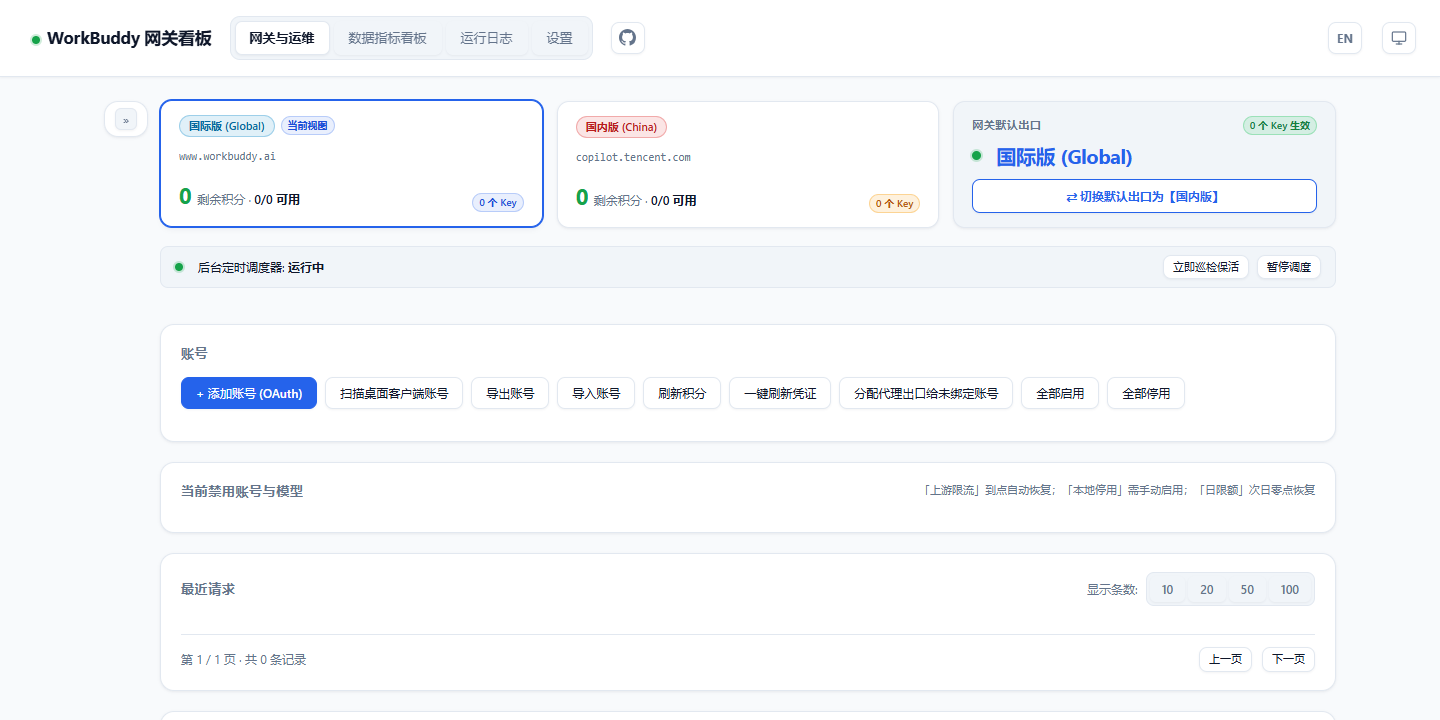
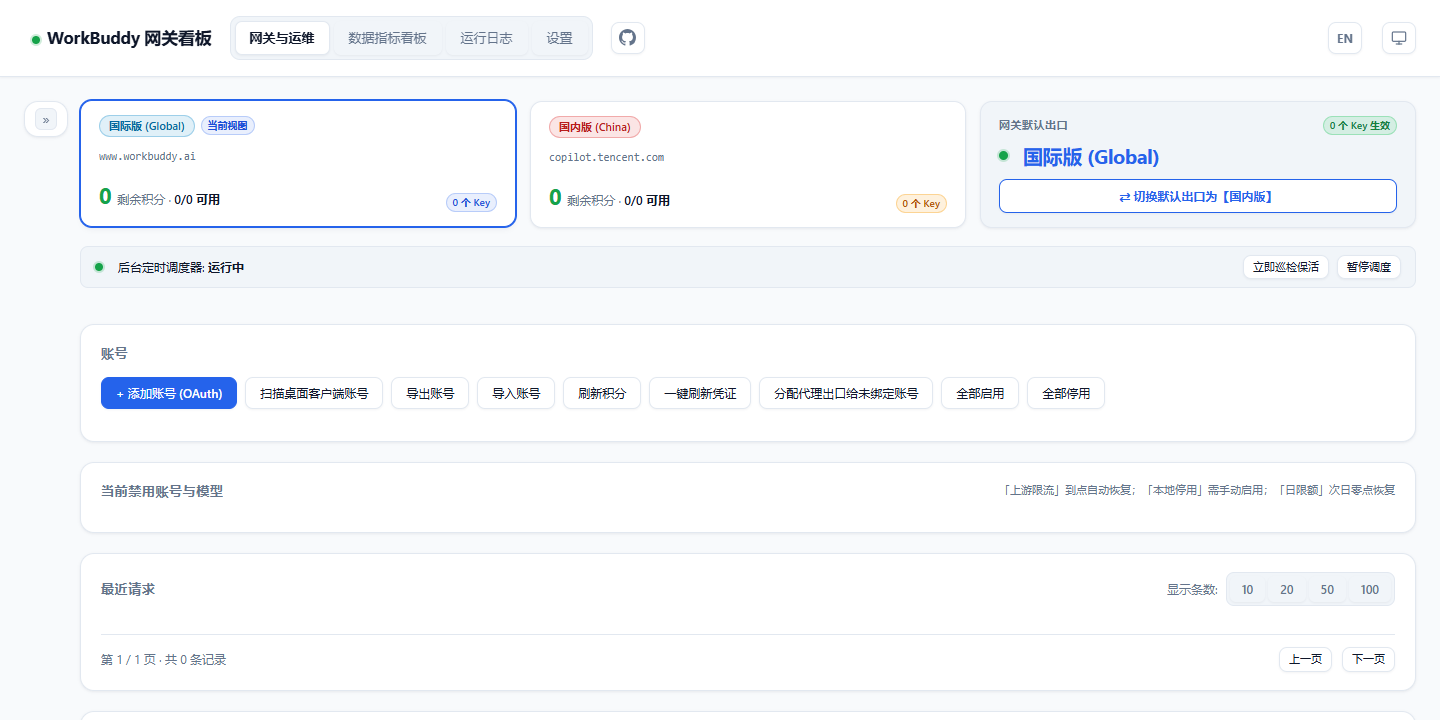
docs(readme): 说明宽度放松行为，同步用例数与截图

diff --git a/README.md b/README.md
@@ -14,6 +14,7 @@
 - **可收起**：宽屏下可以把整列压成一条细轨，把宽度让给内容区；状态跨页面、跨刷新保持。
 - **锚点可分享**：点击导航项会把 `#锚点` 写进地址栏，复制链接给别人，打开就直接落到那个区块。
 - **窄屏自适应**：窗口宽度 ≤860px 时，侧栏自动变成横排在内容上方的一行胶囊，横向可滚。
+- **顺手让出宽度**：面板把内容区卡在 `max-width:1280px`，侧栏一来内容列就不够宽，最宽的表（账号表最小内容宽约 1050px）会冒出横向滚动条、右侧的「同步昵称 / 删除」等列被藏起来。侧栏在场时脚本把上限放松到 1800px，横向滚动条消失；侧栏不在场的页面不碰这个上限，保持面板原样。
 - **与面板自带侧栏兼容**：如果面板自己那条侧栏仍然可用，脚本会自动让位，不会出现并排两条。
 
 ![收起](docs/collapsed.png)
@@ -80,13 +81,13 @@ PANEL_URL=http://192.168.1.10:10202 PANEL_PASSWORD=你的面板密码 node verif
 
 | 被测对象 | 用例 | 结果 |
 | --- | --- | --- |
-| 上游真实 `dashboard.html`（固定提交 `5a04d08`） | 32 | 32 通过 / 0 失败 |
-| 离线夹具 `verify/fixture.html` | 32 | 32 通过 / 0 失败 |
-| 运行中的真实面板（登录后，真实数据） | 22 | 22 通过 / 0 失败 |
+| 上游真实 `dashboard.html`（固定提交 `5a04d08`） | 37 | 37 通过 / 0 失败 |
+| 离线夹具 `verify/fixture.html` | 37 | 37 通过 / 0 失败 |
+| 运行中的真实面板（登录后，真实数据） | 28 | 28 通过 / 0 失败 |
 
-`verify.mjs` 覆盖：侧栏生成与清单正确性（含 `display:none` 区块、无 `h2` 区块、嵌套区块都不成项）、标题剔除状态 `<em>`、点击跳转与锚点、吸顶偏移、滚动高亮与滚到底、回到顶部、收起与刷新后保持、切标签页各自重建、区块不足两项的页面不给侧栏、重复运行不重复包裹/不重复插侧栏、窄屏胶囊行、面板自带侧栏可用时让位、**悬停态不被宿主面板的全局 `button` 样式污染**、脚本自身零报错。
+`verify.mjs` 覆盖：侧栏生成与清单正确性（含 `display:none` 区块、无 `h2` 区块、嵌套区块都不成项）、标题剔除状态 `<em>`、点击跳转与锚点、吸顶偏移、滚动高亮与滚到底、回到顶部、收起与刷新后保持、切标签页各自重建、区块不足两项的页面不给侧栏、重复运行不重复包裹/不重复插侧栏、窄屏胶囊行、面板自带侧栏可用时让位、**悬停态不被宿主面板的全局 `button` 样式污染**、**侧栏在场时放松内容区宽度上限且不出现横向滚动条、侧栏不在场时保持面板原样**、脚本自身零报错。
 
-`verify-live.mjs` 另加：登录闸门、面板自带侧栏确实已不可用、四项导航健全性、逐页清单与页面区块一一对应、以及**等一轮面板轮询**后侧栏仍在且清单不变（面板每几秒重建表格，这是最容易把高亮抖掉的地方）。
+`verify-live.mjs` 另加：登录闸门、面板自带侧栏确实已不可用、四项导航健全性、逐页清单与页面区块一一对应、**逐页核对内容区宽度与各表横向溢出**、以及**等一轮面板轮询**后侧栏仍在且清单不变（面板每几秒重建表格，这是最容易把高亮抖掉的地方）。
 
 复跑后截图落在 `verify/shots/`（已 gitignore）。
 
